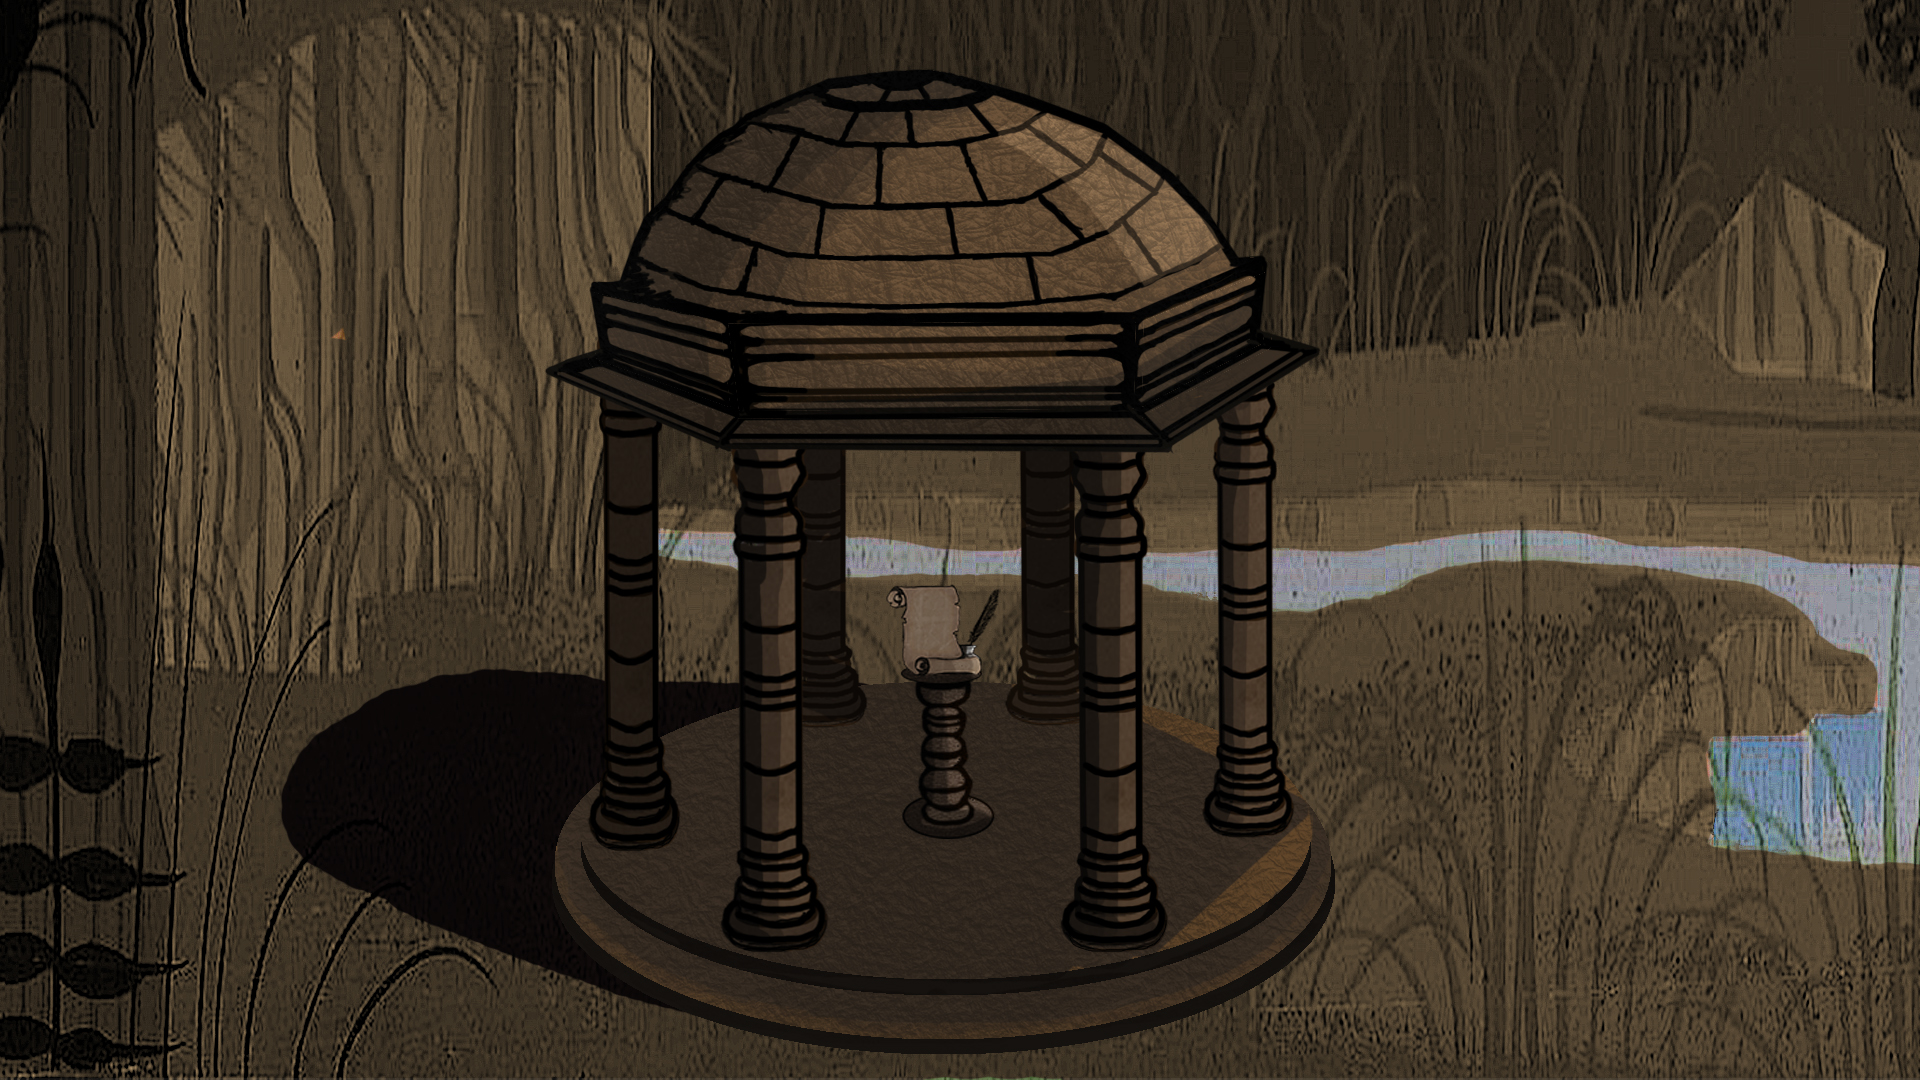
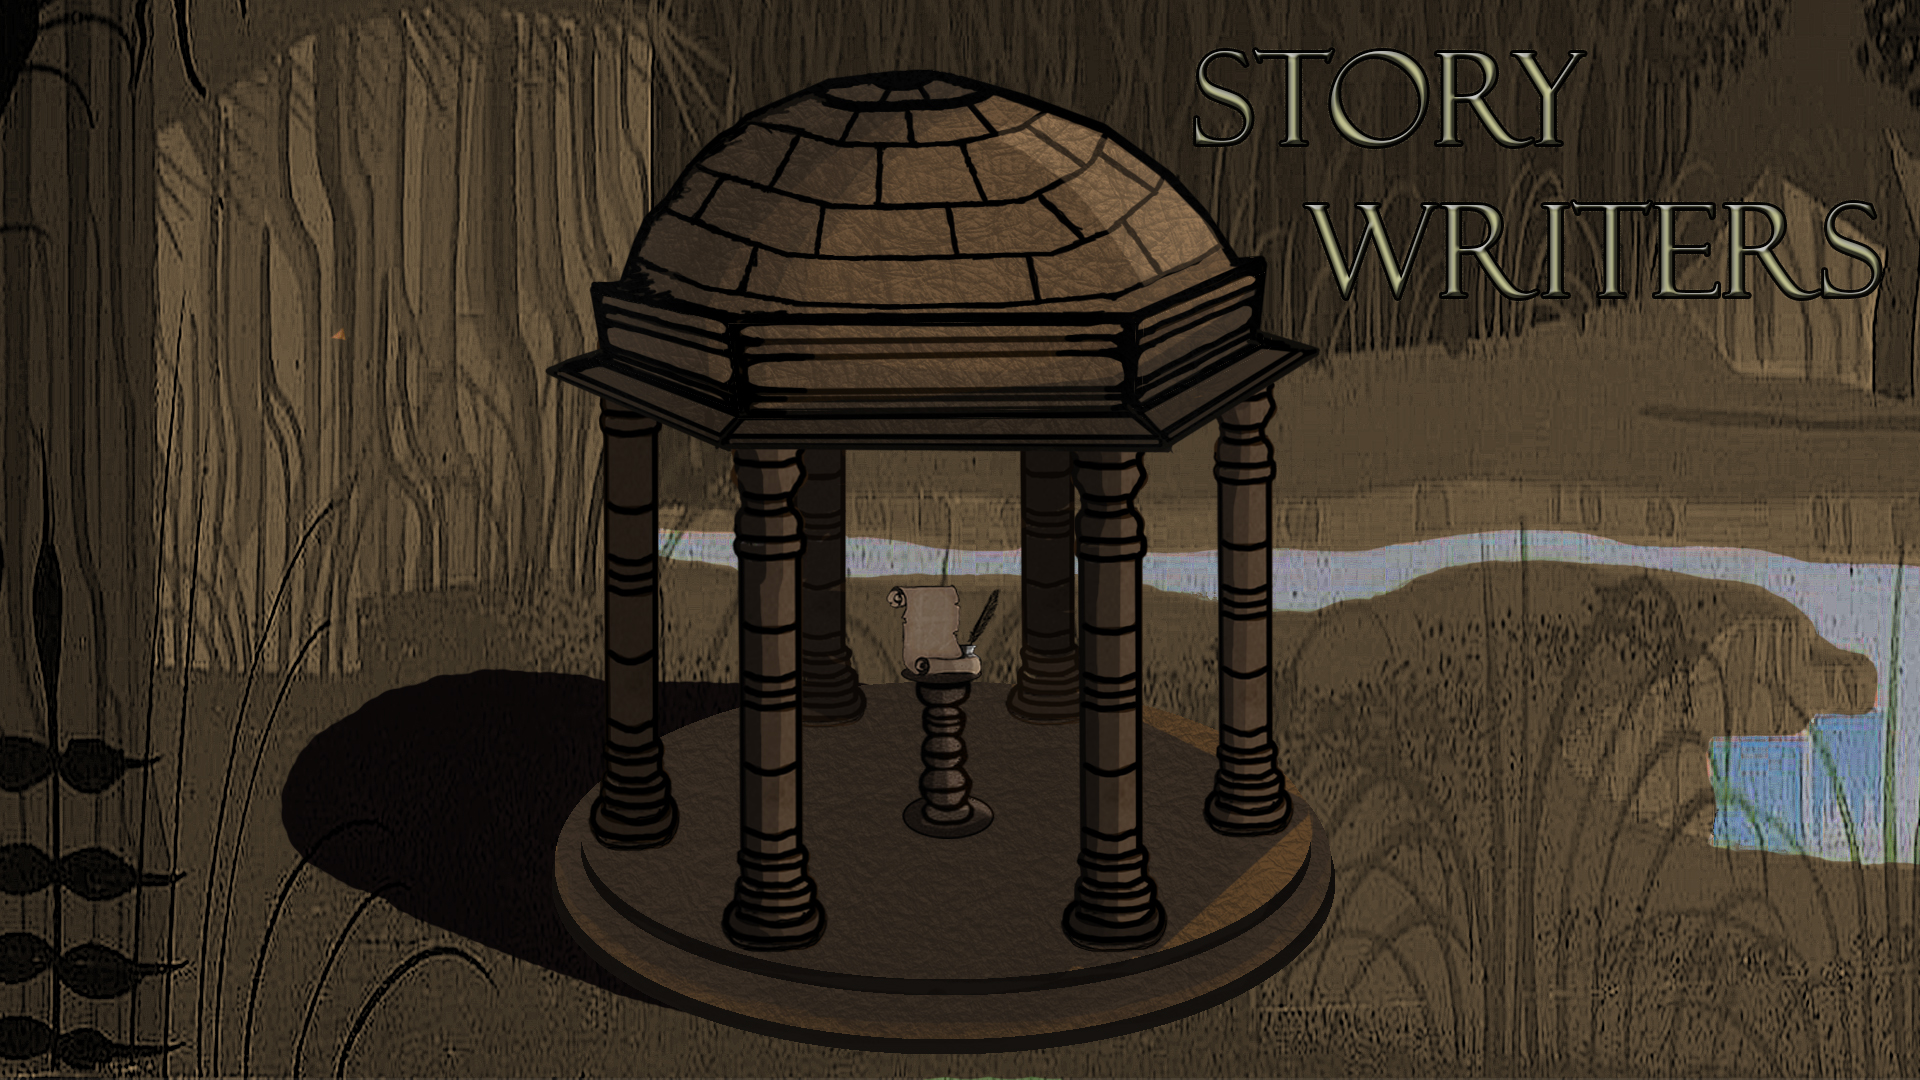
izmene

Changed region(s): [[0.6562, 0.1833, 1.0, 0.275], [0.625, 0.0306, 0.8438, 0.1528]]

diff --git a/Storyteller/src/main/resources/assets/shareGame.html b/Storyteller/src/main/resources/assets/shareGame.html
@@ -11,11 +11,11 @@
 
     <link rel="icon" href="icon.png" />
 </head>
-<body class="withBackground">
+<body class="withBackground2">
     <div id="imgs" class="imgs">
 
         <textarea name="txtarea" class="txt" id="storyParagraph" disabled></textarea>
-        
+
         <ul class="share-buttons">
           <li><a href="https://www.facebook.com/sharer/sharer.php?u=&t=" title="Share on Facebook" target="_blank" onclick="window.open('https://www.facebook.com/sharer/sharer.php?u=' + encodeURIComponent(document.URL) + '&t=' + encodeURIComponent(document.URL)); return false;"><img alt="Share on Facebook" src="imgs/images/social_flat_rounded_rects_svg/Facebook.svg"></a></li>
           <li><a href="https://twitter.com/intent/tweet?source=&text=:%20" target="_blank" title="Tweet" onclick="window.open('https://twitter.com/intent/tweet?text=' + encodeURIComponent(document.title) + ':%20'  + encodeURIComponent(document.URL)); return false;"><img alt="Tweet" src="imgs/images/social_flat_rounded_rects_svg/Twitter.svg"></a></li>

diff --git a/Storyteller/src/main/resources/assets/js/application.js b/Storyteller/src/main/resources/assets/js/application.js
@@ -4,7 +4,7 @@ $(function() {
         tajmer = false;
 
     var timerFunc = function(br) {
-        $("#tajmer").text(br);
+        $("#tajmer").text("Your turn:"+ br);
         if (br > 0) {
             setTimeout(function() {
                 timerFunc(br - 1);
@@ -82,7 +82,7 @@ $(function() {
             }
         });
     }
-    
+
     var submitFunc = function (word) {
         if(word === ".") {
             word = "endSentenceDot";
@@ -157,7 +157,7 @@ $(function() {
     $("#pollButton").prop("disabled", true);
 
     $("#userInput").select2({
-        placeholder: "Click to type",
+        placeholder: "click to type",
         minimumInputLength: 1,
         ajax: { // instead of writing the function to execute the request we use Select2's convenient helper
             url: "./api/play/words",

diff --git a/Storyteller/src/main/resources/assets/css/style.css b/Storyteller/src/main/resources/assets/css/style.css
@@ -5,6 +5,13 @@ body.withBackground {
     -o-background-size: cover;
     background-size: cover;
 }
+body.withBackground2 {
+    background: url('../imgs/sharescreen.jpg') no-repeat center center fixed;
+    -webkit-background-size: cover;
+    -moz-background-size: cover;
+    -o-background-size: cover;
+    background-size: cover;
+}
 
 .startGame {
     width: 200px;
@@ -64,6 +71,7 @@ body.withBackground {
 }
 
 .inp {
+      font-family: font;
     position: relative;
     top: 8%;
     width: 270px;
@@ -163,6 +171,7 @@ body.withBackground {
 }
 
 .tajmer {
+    font-family: font;
     display: block;
     position: absolute;
     padding: 5px 40px;
